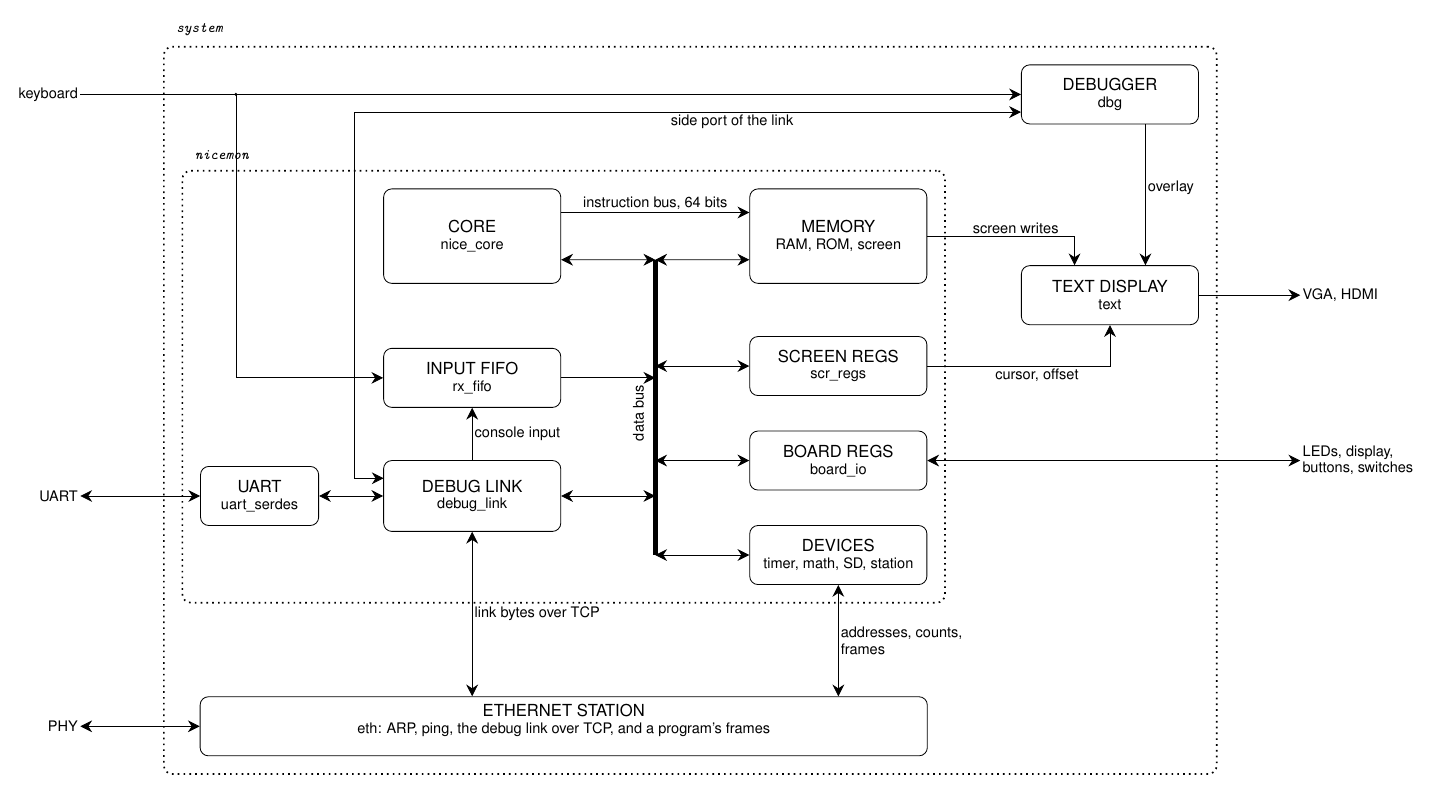
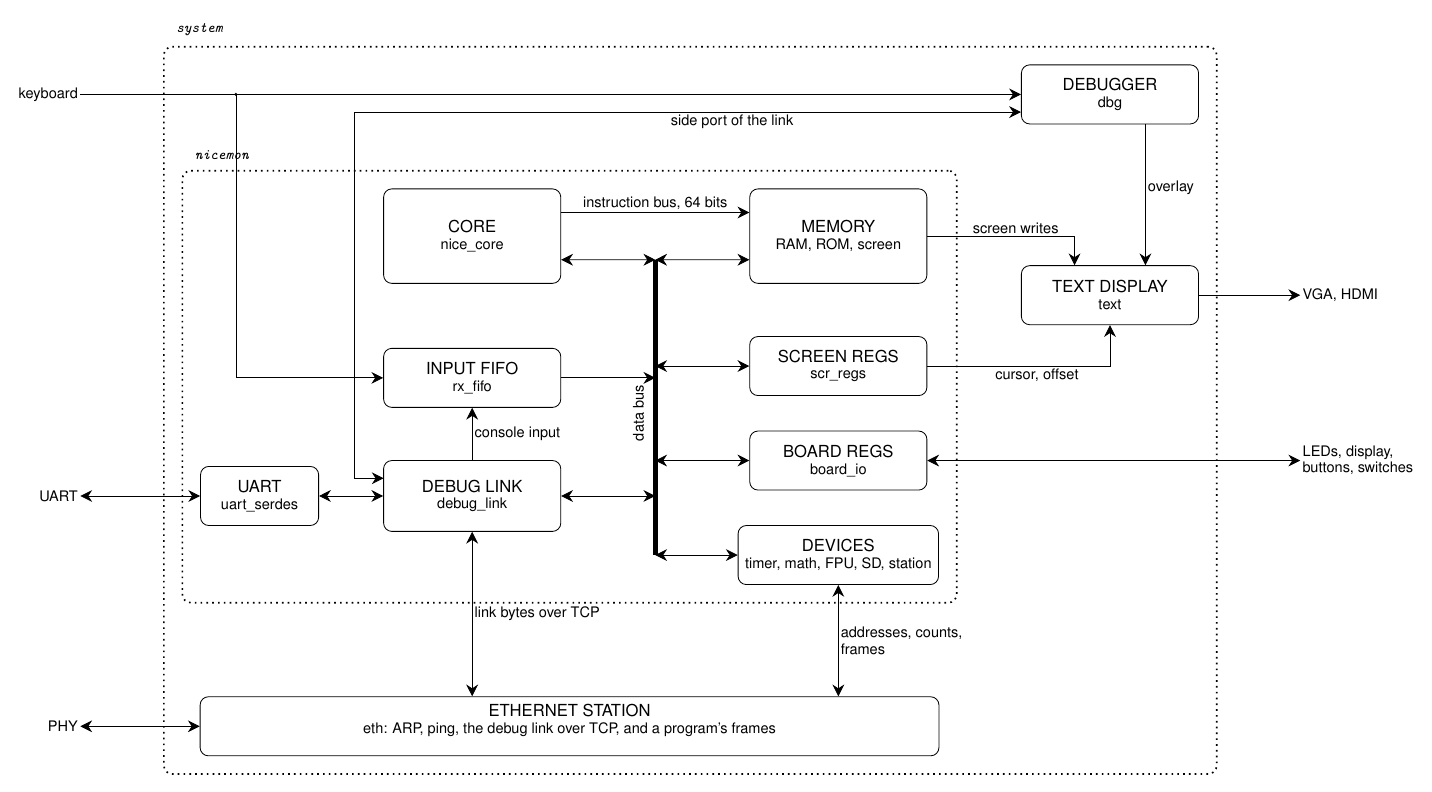
Bring the documents in step with the FPU
A review before V2.2 found documents that the FPU of #136, its
clear of #141, and the TAB completion of #137 had passed by.

CONTRIBUTING.md names the FPU in devices.vhd and in
sim/devices.nasm, and gives the screen's registers as 80-87, as
doc/EMULATOR.md does in its row of the reserved words.
doc/PROGRAMMING.md and the release notes say that a program with
floats needs the bitstreams of V2.2, and that nicebuild.py
--no-fpu builds it for older ones. The release notes gain the TAB
completion and the monitor's clear of the FPU.
monitor/INTERNALS.md describes the FPU's part of the rom test,
src/README.md and its diagram name the FPU among the devices, and
tb_nicemon.vhd's header says what devices.nasm does with it.

nice_cpu's DEVICES.md still says that this system has no FPU,
which is MJoergen/nice_cpu#188.

Changed region(s): [[0.2458, 0.8788, 0.5531, 0.9394], [0.4916, 0.6667, 0.676, 0.7273], [0.6453, 0.8788, 0.676, 0.9091]]

diff --git a/src/system.tex b/src/system.tex
@@ -65,7 +65,7 @@
    \node[block]                        (sreg) at (62, -22) {SCREEN REGS\\[-0.5mm]
                                                            {\scriptsize scr\_regs}};
    \node[block]                        (dev)  at (62, -54) {DEVICES\\[-0.5mm]
-                                                           {\scriptsize timer, math, SD, station}};
+                                                           {\scriptsize timer, math, FPU, SD, station}};
 
    % The data bus, port B of the memory and the registers
    \coordinate (busx) at (31, 0);

diff --git a/doc/EMULATOR.md b/doc/EMULATOR.md
@@ -64,7 +64,7 @@ FIFO, the ROM, and the aliasing. The rows below that it covers are marked
 | Screen, `0xFFFF0000`–`07CF` ([nice_cpu's DEVICES.md §8](https://github.com/MJoergen/nice_cpu/blob/main/doc/DEVICES.md#8-systems-built-on-the-fpga-core)) | 80×25 words of memory, printed by `--screen`, and shown while the program runs by `--window`, with the cursor of `0xFFFFFF80`–`82` and the same font | 32768 words of memory of their own (8192 on the Nexys4DDR), the first 2000 of which are shown on VGA and HDMI (VGA only on the Nexys4DDR), unless the display offset is set | Yes | The link reads the whole memory, though `load.py` loads only the 8192 words that both boards have. |
 | Font, `0xFFFE0000`–`3FFF`, and its base, `0xFFFFFF86` ([nice_cpu's DEVICES.md §1.8](https://github.com/MJoergen/nice_cpu/blob/main/doc/DEVICES.md#18-font) and [§8](https://github.com/MJoergen/nice_cpu/blob/main/doc/DEVICES.md#8-systems-built-on-the-fpga-core)) | The font RAM, which keeps bits 15..0 of a write, Spleen as a character ROM beside it, and the base, which selects the one `--window` draws from. All of it is memory, which an instruction fetch reads too | The same font RAM, character ROM, and base, which the display draws from, and a clear zeros the font RAM and the base. The debugger's strip and page are always in Spleen | Yes, but | An instruction fetch in the fonts reads the RAM that they alias, `0x0000`–`3FFF` of the board's RAM, so a program does not run from its font ([nice_cpu's DEVICES.md §8](https://github.com/MJoergen/nice_cpu/blob/main/doc/DEVICES.md#8-systems-built-on-the-fpga-core)). The base keeps all 32 bits, as the emulator's memory does. |
 | Read counter, `0xFFFFFF01` | Counts the data reads since the last write, and a start keeps it | The same. The link reads it as 0 and does not write it ([DEBUG.md §3](https://github.com/MJoergen/nice_cpu/blob/main/doc/DEBUG.md#3-requests-and-answers)), as does `niceemu --link` | Yes, but | `run.py -d` shows 0 there. |
-| The rest of `0xFFFFFF02`–`FF` ([nice_cpu's DEVICES.md §8](https://github.com/MJoergen/nice_cpu/blob/main/doc/DEVICES.md#8-systems-built-on-the-fpga-core)) | Ordinary memory for data, but for `CONSOLE_IRQ` at `02`, the FPU at `88`–`8F`, the SD card's registers at `A0`–`AF`, the network station at `B0`–`BF`, and the port for Ethernet frames at `C0`–`CF` | Memory, in the top 256 words of the RAM, at `0xFFFFFF02`–`0F` and `D0`–`FF`. `10`–`7F` are the devices of the rows above, `80`–`8F` the screen's registers, `90`–`9F` the board's devices, `A0`–`AF` the SD card controller, `B0`–`BF` the network station, and `C0`–`CF` the port for Ethernet frames. The link reads its debug registers at `D0`–`FF`, where the core has memory | Yes, but for `02` and `80`–`9F` | The emulator's `0xFFFFFF02` is the console's receive interrupt of [nice_cpu's DEVICES.md §1.9](https://github.com/MJoergen/nice_cpu/blob/main/doc/DEVICES.md#19-receive-interrupt), which the board does not have yet ([#104](https://github.com/MJoergen/NiceMonMEGA65/issues/104)): there it is a word of RAM, and the console raises no IRQ. `niceemu --window` draws its cursor from `80`–`82`, which stay memory there, and has no display offset. Here only bits 6..0 of the column and 4..0 of the row are kept, so a column of 128 or more wraps, where the emulator shows no cursor. |
+| The rest of `0xFFFFFF02`–`FF` ([nice_cpu's DEVICES.md §8](https://github.com/MJoergen/nice_cpu/blob/main/doc/DEVICES.md#8-systems-built-on-the-fpga-core)) | Ordinary memory for data, but for `CONSOLE_IRQ` at `02`, the FPU at `88`–`8F`, the SD card's registers at `A0`–`AF`, the network station at `B0`–`BF`, and the port for Ethernet frames at `C0`–`CF` | Memory, in the top 256 words of the RAM, at `0xFFFFFF02`–`0F` and `D0`–`FF`. `10`–`7F` are the devices of the rows above, `80`–`87` the screen's registers, `88`–`8F` the FPU of its row above, `90`–`9F` the board's devices, `A0`–`AF` the SD card controller, `B0`–`BF` the network station, and `C0`–`CF` the port for Ethernet frames. The link reads its debug registers at `D0`–`FF`, where the core has memory | Yes, but for `02`, `80`–`87`, and `90`–`9F` | The emulator's `0xFFFFFF02` is the console's receive interrupt of [nice_cpu's DEVICES.md §1.9](https://github.com/MJoergen/nice_cpu/blob/main/doc/DEVICES.md#19-receive-interrupt), which the board does not have yet ([#104](https://github.com/MJoergen/NiceMonMEGA65/issues/104)): there it is a word of RAM, and the console raises no IRQ. `niceemu --window` draws its cursor from `80`–`82`, which stay memory there, and has no display offset. Here only bits 6..0 of the column and 4..0 of the row are kept, so a column of 128 or more wraps, where the emulator shows no cursor. |
 | SD card, `0xFFFFFFA0`–`AF` | nice_cpu's SD card controller ([DEVICES.md §5](https://github.com/MJoergen/nice_cpu/blob/main/doc/DEVICES.md#5-sd-card)), 2 slots, with the image files of `--sd0` and `--sd1`; a command ends in the write that starts it | The same controller, on the cards of the slots: 2 on the MEGA65 and 1 on the Nexys4DDR, so `SD_SLOTS` is 1 there. A command takes time, and busy reads 1 until it ends | Yes, for a program that waits for busy | A program that does not wait for busy reads the buffer of a command that has not ended. `tb_nicemon` runs nice_cpu's test of the controller against niceemu with the end of a command held, as in nice_cpu's simulation. |
 | Network station, `0xFFFFFFB0`–`BF` ([nice_cpu's DEVICES.md §6](https://github.com/MJoergen/nice_cpu/blob/main/doc/DEVICES.md#6-network-station)) | The IP and MAC addresses, registers with the reset values of §6; the counts read 0; `NET_STATUS` has the port of `--link` and bit 31 while a host is connected to it, and is 0 without `--link` | The Ethernet station's registers ([SYSTEM.md](SYSTEM.md#the-ethernet-station)): the addresses, the counts of its frames, and `NET_STATUS` with port 4510 and bit 31 while a host is connected over TCP. Only a reset of the system resets them | Yes, but | The counts are the board's own, and a write of an address breaks a connection over TCP, which the emulator keeps. |
 | Ethernet frames, `0xFFFFFFC0`–`CF` ([nice_cpu's DEVICES.md §7](https://github.com/MJoergen/nice_cpu/blob/main/doc/DEVICES.md#7-ethernet-frames)) | The port, with the frames of `--eth-in` or `--eth-udp`, and those sent to `--eth-out` or `--eth-udp` | The port, with the frames of the Ethernet station ([SYSTEM.md](SYSTEM.md#ethernet-frames)) | Yes, but | The frames come when the network sends them, not at the writes that enable the port and send, so a program waits for them. Busy reads 1 while the station takes a frame into its FIFO, up to about 23 µs, which the emulator never shows. |

diff --git a/CONTRIBUTING.md b/CONTRIBUTING.md
@@ -161,12 +161,13 @@ The rules that every change follows are in [CLAUDE.md](CLAUDE.md), under
   registers, and the debug link.
 - `mem.vhd`, with `ram.vhd` and `rom.vhd`, is the memory.
 - `rx_fifo.vhd` is the core's input FIFO.
-- `devices.vhd` has nice_cpu's devices at `0xFFFFFF10`–`7F`, and the
-  SD card controller, the network station, and the port for Ethernet
-  frames at `0xFFFFFFA0`–`CF`.
+- `devices.vhd` has nice_cpu's devices at `0xFFFFFF10`–`7F`, its
+  floating-point unit, the FPU, at `0xFFFFFF88`–`8F`, and the SD card
+  controller, the network station, and the port for Ethernet frames at
+  `0xFFFFFFA0`–`CF`.
 - `bus_pkg.vhd` has `gate()`, with which `devices.vhd` and `nicemon.vhd`
   pick their read data.
-- `scr_regs.vhd` has the screen's registers at `0xFFFFFF80`–`8F`.
+- `scr_regs.vhd` has the screen's registers at `0xFFFFFF80`–`87`.
 - `board_io.vhd` has the board's registers at `0xFFFFFF90`–`9F`, and
   `uart_pkg.vhd` the UART's baud rates, which it shares with the
   debugger's settings page. `i2c.vhd` is the I2C master at
@@ -460,7 +461,7 @@ Then it loads and runs these programs:
 |---|---|
 | `sim/echo.nasm` | Echoes what it receives. The testbench pauses it: the `p` notice, the memory, R15, and the stopped cycle counter while paused, a write of R5 that the core keeps until its halt, and a byte that waits until it goes on. A write of R5 while it runs gets `e04`. |
 | `sim/fifo.nasm` | The input FIFO, which has 16 bytes there, so that the test of a full FIFO is short. |
-| `sim/devices.nasm` | The math unit, the performance counters, and the timer's interrupts. The testbench also uses the math unit over the link. |
+| `sim/devices.nasm` | The math unit, the performance counters, the FPU, with a `DIV` whose result the program reads while the command runs, so that the reads wait, and the timer's interrupts. The testbench also uses the math unit over the link, and reads the FPU's top value and its status. |
 | `sim/emu.nasm` | The screen, the read counter, memory in the I/O range, and the registers after a halt. The testbench writes and reads the screen's registers. |
 | `reserved.nasm` of the emulator's tests | A halt on a reserved control word, after the testbench has cleared the memory. |
 | `sim/bytewin.nasm` | The byte windows: reads of bytes and halfwords, zero- and sign-extended, writes that change only their byte or halfword, and an indexed operand, as nice_cpu's `bytewin.nasm` checks them, without its words beyond the RAM and its fetch from a window, which alias the RAM here. The testbench reads and writes through the windows over the link. |
@@ -565,7 +566,7 @@ every time, not only the ones a testbench sends.
   sets the generic's, and the bit's cycles that go out are always those
   of the rate it holds. Without the other registers, every word but
   those reads 0.
-- `scr_regs.sby` proves the screen's registers at `0xFFFFFF80`–`8F`,
+- `scr_regs.sby` proves the screen's registers at `0xFFFFFF80`–`87`,
   `src/scr_regs.vhd`: a write sets the register of its word, nothing else
   changes one but a clear or reset, each word reads its register, or 0,
   the display hears of each write, clear, and reset, and the display

diff --git a/monitor/INTERNALS.md b/monitor/INTERNALS.md
@@ -441,7 +441,7 @@ compared with `test/NAME.expected`:
 | `arp` | `test/arp.nasm`, with the frames of `test/arp.eth` | `arp_resolve`: a reply after other frames, the cache, no reply, an entry aged out, and the cache filled and gone round. The frames sent are compared too. |
 | `udp` | `test/udp.nasm`, with the frames of `test/udp.eth` | The UDP entries: each error, a datagram sent after ARP, a broadcast, datagrams received among other frames, one cut short, and one sent through the gateway. The frames sent are compared too. |
 | `net` | `test/net.nasm`, with the frames of `test/net.eth` | The poll and the IP settings of issue #111: `net_config` at a word-window address and a plain one, `net_set`, `net_poll`, a datagram held and a second dropped, ARP replies learned in place, so that no request goes, a TCP segment released, and a deadline armed, not due, and due. The frames sent are compared too. |
-| `rom` | `build/rom.bin`: the monitor with `test/rom.c` in its C code, and `test/rom.nasm` | The C code in the ROM: a global's initial value, a static array set to 0, both again after `r 0`, `nice_print`, and a trap, whose address must be the label `_rom_trap`. |
+| `rom` | `build/rom.bin`: the monitor with `test/rom.c` in its C code, and `test/rom.nasm` | The C code in the ROM: a global's initial value, a static array set to 0, both again after a jump to 0, the cold start, `nice_print`, and a trap, whose address must be the label `_rom_trap`. And the FPU (issue #141): each run leaves 10 values and the four flags on it, and the next one, after the trap or the cold start, finds it empty with no flag. |
 | `fs` | `test/fs.nasm`, with FAT images in both slots | The file entries, through `mon.nasm`'s stubs: handles, reads across the fragments of a file and at its end, the folder's entries, mounts, each error a program can cause, and `fs_readname`'s long name and 8.3 name in lower case, and a file opened by its long name. |
 | `fsw` | `test/fsw.nasm`, with a copy of the card with partitions, one file read-only, and a write-protected card | The entries that write: a file written in pieces across clusters and read back, truncated, a file of ten clusters, deletions, one of a long name, a folder that grows a cluster, a mount that drops an open file, and each error. |
 | `fat` | The monitor, with FAT images in both slots | `dir` and `load`: the fragmented `FRAG.BIN`, a text file, bad arguments, and `HELLO.BIN` loaded and run. |

diff --git a/doc/RELEASE_NOTES.md b/doc/RELEASE_NOTES.md
@@ -30,6 +30,11 @@ nice_cpu's `RC01` and `RC03` have no tag here.
   `nicebuild.py` joins the float library that uses it. The screen's
   registers end at `0xFFFFFF87`, where they took `80`–`8F`; only
   `80`–`86` were ever used.
+- A program with floats that `nicebuild.py` builds needs the FPU,
+  which the bitstreams and core files have from this release on. On an
+  older one it computes wrong results and reports nothing.
+  `nicebuild.py --no-fpu` builds it for an older one, with the float
+  library in software, as before.
 - nicewasm's `--library-memory` and `--ram-bytes`, and nicebuild's
   `--ram-bytes`, are gone; `--memory-bytes` replaces them. None of the
   builds here used them.
@@ -41,6 +46,12 @@ nice_cpu's `RC01` and `RC03` have no tag here.
 
 **New.**
 
+- In the monitor, TAB completes the name of a file of the card's folder
+  `NICE`, as Bash does: the rest of the name when one file matches, the
+  start that they share when several do, and a list of them at a TAB
+  that adds nothing
+  ([#137](https://github.com/MJoergen/NiceMonMEGA65/issues/137),
+  [monitor/README.md](../monitor/README.md#the-commands)).
 - `sdcard.py mkdir`, and `make sdcard CMD=mkdir`, make the folder `NICE`
   on a card that has FAT32 but not the folder, with no PC slot
   ([#140](https://github.com/MJoergen/NiceMonMEGA65/issues/140)). The
@@ -54,6 +65,11 @@ nice_cpu's `RC01` and `RC03` have no tag here.
   ([#138](https://github.com/MJoergen/NiceMonMEGA65/issues/138)).
 - `primes.bin` of the examples joins the float library that uses the
   FPU, as `nicebuild.py` does, and is 13712 words, where it was 20267.
+- The monitor empties the FPU's stack and clears its flags at its cold
+  start, when a program returns or calls `mon_exit`, and at a trap of
+  the ROM's C code, so that the next program finds none of the values
+  that the last one left
+  ([#141](https://github.com/MJoergen/NiceMonMEGA65/issues/141)).
 
 **Tests.**
 

diff --git a/src/README.md b/src/README.md
@@ -26,7 +26,8 @@ header of `nicemon.vhd` is the address map, and
   DEVICES.md §9](https://github.com/MJoergen/nice_cpu/blob/main/doc/DEVICES.md#9-byte-windows), with byte enables on the RAM.
 - **DEVICES** ([devices.vhd](devices.vhd)) are nice_cpu's: the timer,
   the math unit, the performance counters, the fetch statistics, the
-  SD card controller ([sd/sd.vhd](sd/sd.vhd)), whose pins go to the
+  floating-point unit (FPU), the SD card controller
+  ([sd/sd.vhd](sd/sd.vhd)), whose pins go to the
   board's slots, the network station's registers, the Ethernet
   station's addresses and its counts of frames, and the port for
   Ethernet frames, whose frames the station receives and sends. The

diff --git a/doc/PROGRAMMING.md b/doc/PROGRAMMING.md
@@ -265,7 +265,10 @@ assembles it together with the start-up code and the runtime library.
 
 A program that uses floats computes them on the floating-point unit,
 the FPU, at `0xFFFFFF88`–`8F`, which every board and the emulator have
-([SYSTEM.md](SYSTEM.md#io-registers)).
+([SYSTEM.md](SYSTEM.md#io-registers)). The bitstreams and core files
+before `V2.2` have no FPU: there such a program computes wrong results
+and reports nothing. `nicebuild.py --no-fpu` builds it for them, with
+the float library in software.
 
 You need clang with the wasm32 target, `wasm-ld`, and `llvm-ar` (on
 Debian and Ubuntu, the `clang`, `lld`, and `llvm` packages). The steps
